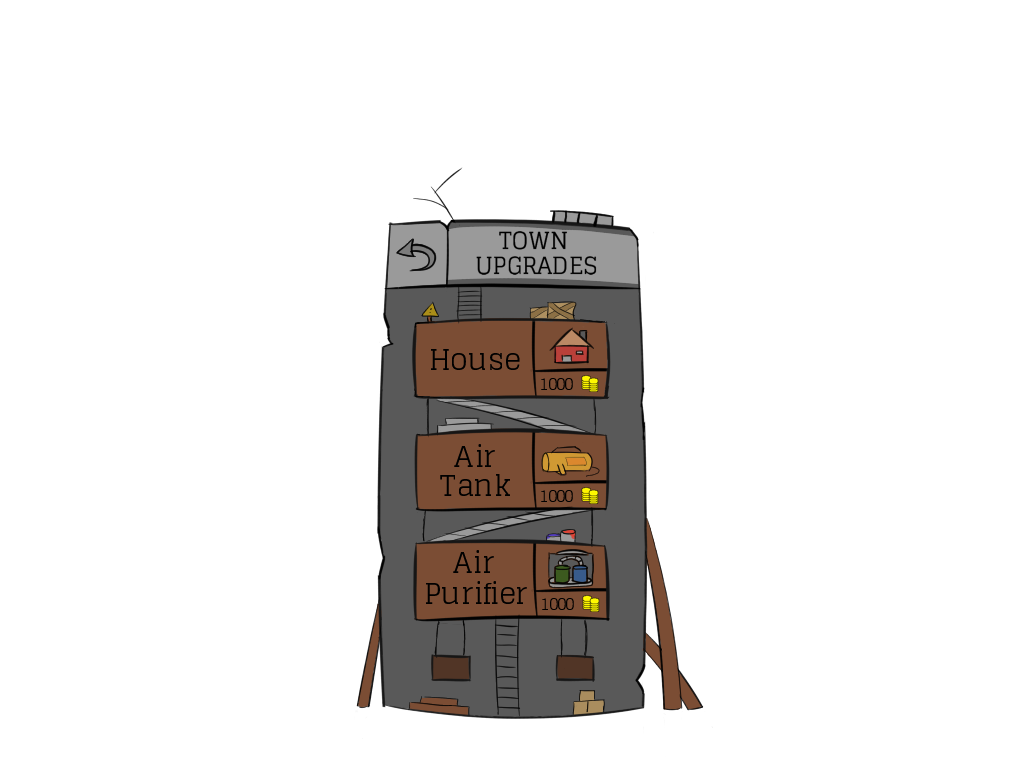
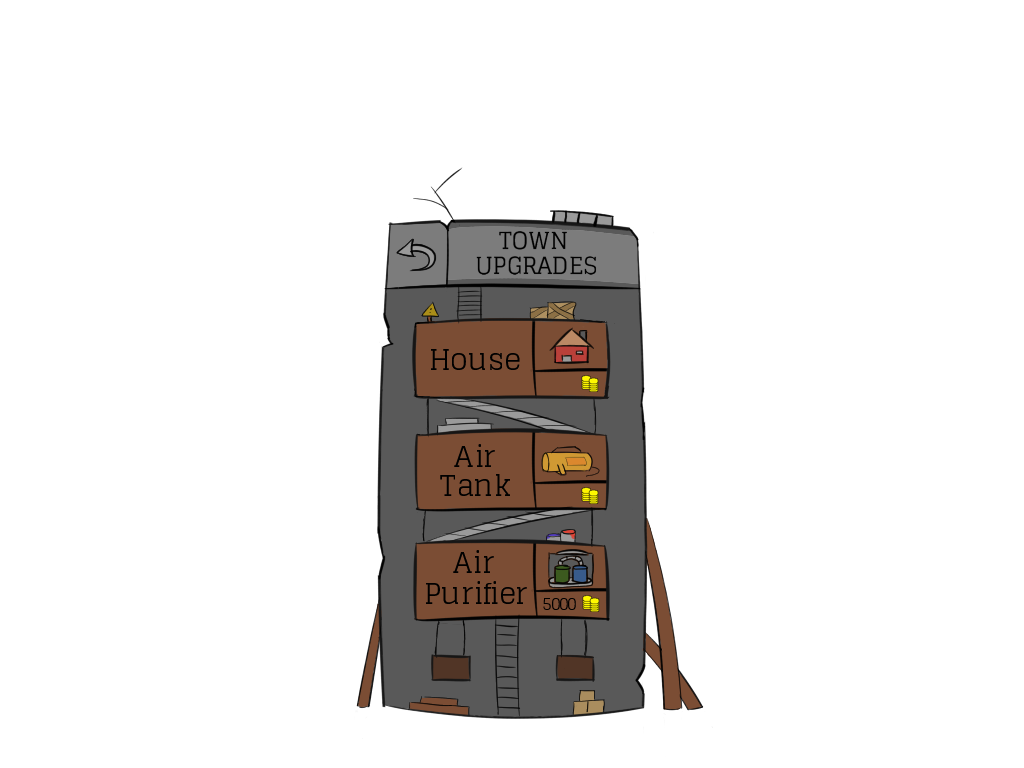
interface village done

diff --git a/Village.py b/Village.py
@@ -54,13 +54,17 @@ class Village(object):
         self.image_town_upgrades = pygame.image.load("images/town_upgrades.png").convert_alpha()
         self.image_town_hall = pygame.image.load("images/town_hall.png").convert_alpha()
         self.image_skills = pygame.image.load("images/skills.png").convert_alpha()
+        self.image_skills_air = pygame.image.load("images/skills_gauntlets_sold_out.png").convert_alpha()
+        self.image_skills_boots = pygame.image.load("images/skills_boots_sold_out.png").convert_alpha()
+        self.image_skills_out = pygame.image.load("images/skills_both_sold_out.png").convert_alpha()
         self.image_expedition = pygame.image.load("images/expedition.png").convert_alpha()
         self.image_air_purifier_sign = pygame.image.load("images/air_purifier_sign.png").convert_alpha()
         self.image_town_upgrades_sign = pygame.image.load("images/town_upgrades_sign.png").convert_alpha()
         self.image_skills_sign = pygame.image.load("images/skills_sign.png").convert_alpha()
         self.image_expedition_sign = pygame.image.load("images/expedition_sign.png").convert_alpha()
         self.image_boots_sign = pygame.image.load("images/boots_sign.png").convert_alpha()
-
+        self.image_gauntlets_sign = pygame.image.load("images/gauntlets_sign.png").convert_alpha() 
+                
     def setDifficulty(self, difficulty):
         self.difficulty = difficulty
 
@@ -121,7 +125,12 @@ class Village(object):
                 self.gameDisplay.blit(self.image_expedition_sign, (0, 0))
 
             elif action == "boots":
-                self.gameDisplay.blit(self.image_boots_sign, (0, 0))
+                if not self.boots:
+                    self.gameDisplay.blit(self.image_boots_sign, (0, 0))
+
+            elif action == "airskill":
+                if not self.airskill:
+                    self.gameDisplay.blit(self.image_gauntlets_sign, (0, 0))
             
             #elif action == "airskill":
                 #self.gameDisplay.blit(self.image_air_skill, (0, 0))
@@ -262,7 +271,7 @@ class Village(object):
 
         self.button(x, y, buttonWidth, buttonHeight, green, bright_green, "goldToAir1")
         self.button(x, y2, buttonWidth, buttonHeight, green, bright_green, "goldToAir10")
-        self.button(x, y3, buttonWidth, buttonHeight, green, bright_green, "goldToAirMax")
+        self.button(x, y3, buttonWidth, buttonHeight, green, bright_green, "goldToAir50")
 
         if self.gold < LOW_PRICE_AIR:
             self.button(x, y, buttonWidth, buttonHeight, (100, 100, 100), (100, 100, 100))
@@ -319,6 +328,8 @@ class Village(object):
             self.textDisplay("Air tank", black, 20, (x+(buttonWidth/2)), (y3+(buttonHeight/3)) )
 
             self.gameDisplay.blit(self.image_town_upgrades, (0, 0))
+            self.textDisplay(str(PRICE_HOUSE+(self.house*HOUSE_INCREASE)), black, 17, 558, 384)
+            self.textDisplay(str(PRICE_AIR_TANK+(self.airTank*AIR_TANK_INCREASE)), black, 17, 558, 496)
 
         elif self.skills:
             self.button(388, 222, 61, 66, (200, 200, 200), (100, 100, 100), "menu")
@@ -329,7 +340,14 @@ class Village(object):
             self.button(x, y2, buttonWidth, buttonHeight, green, bright_green, "airskill")
             self.textDisplay("Air skill", black, 20, (x+(buttonWidth/2)), (y2+(buttonHeight/3)) )
 
-            self.gameDisplay.blit(self.image_skills, (0, 0))
+            if not self.boots and not self.airskill:
+                self.gameDisplay.blit(self.image_skills, (0, 0))
+            if not self.boots and self.airskill:
+                self.gameDisplay.blit(self.image_skills_air, (0, 0))
+            if self.boots and not self.airskill:
+                self.gameDisplay.blit(self.image_skills_boots, (0, 0))
+            if self.boots and self.airskill:
+                self.gameDisplay.blit(self.image_skills_out, (0, 0))
             
             
         ####### 

diff --git a/main.py b/main.py
@@ -32,7 +32,7 @@ def updateTimers():
         tAir.start()
     if not village.timerPop:
         village.timerPop = True
-        tPop = Timer(1.0, village.plusPopulation)
+        tPop = Timer(10.0, village.plusPopulation)
         tPop.start()
     if not village.timerGold:
         village.timerGold = True
